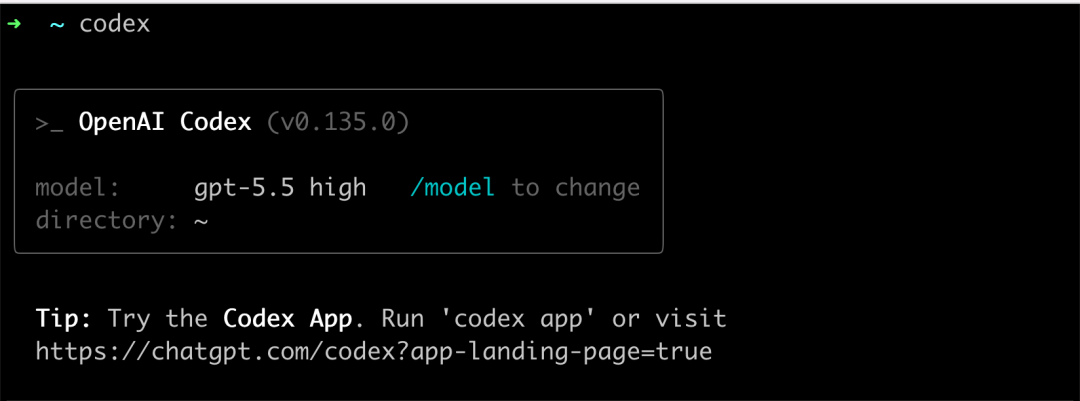
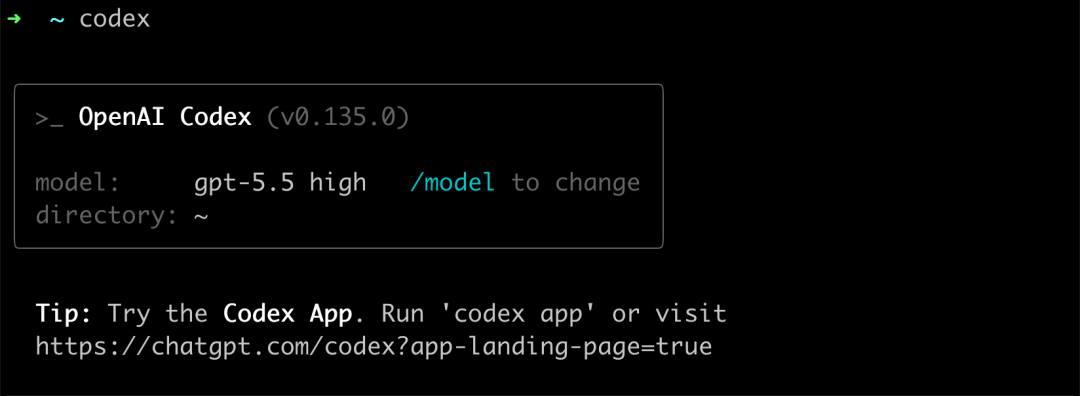
添加文章

diff --git a/docs/.vitepress/theme/style/style.css b/docs/.vitepress/theme/style/style.css
@@ -152,3 +152,15 @@
 .VPFeatures .items .item:hover {
   transform: translateY(-5px);
 }
+
+/* markdown中图片效果 */
+.vp-doc img {
+  border-radius: 8px; /* 可选：增加圆角使阴影更柔和 */
+  box-shadow: 0 0 16px rgba(0, 0, 0, 0.50);
+  transition: box-shadow 0.3s ease;
+}
+
+/* 鼠标悬停时加深阴影（可选） */
+.vp-doc img:hover {
+  box-shadow: 0 0 24px rgba(0, 0, 0, 0.60);
+}

diff --git a/docs/src/index.md b/docs/src/index.md
@@ -22,6 +22,9 @@ hero:
 
 # 特性列表配置 - 展示项目的核心功能特点(最多3个)
 features:
+  - title: VitePress个人网站搭建
+    details: 快速搭建一个自己的个人网站，快速开始你的知识构建
+    link: /VitePress搭建/首页
   - title: 环境搭建
     details: 提供详细的环境配置指南，从零开始快速搭建开发环境
     link: /环境安装/首页
@@ -29,6 +32,15 @@ features:
     details: 小而全的Java工具类库,使Java拥有函数式语言般的优雅
     link: https://www.hutool.cn/docs/#/
 
+  - title: 空
+    details: 还没有内容
+    link: /
+  - title: 空
+    details: 还没有内容
+    link: /
+  - title: 空
+    details: 还没有内容
+    link: /
 
 ---
 